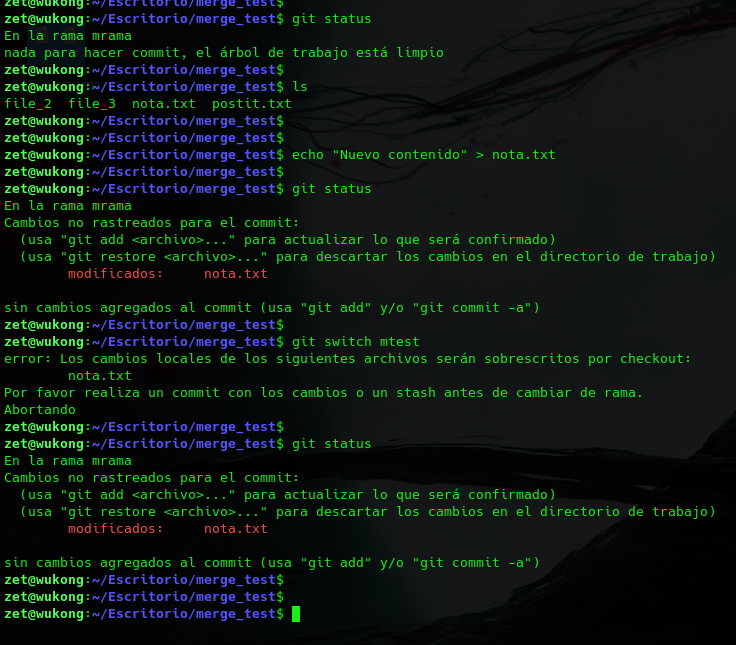
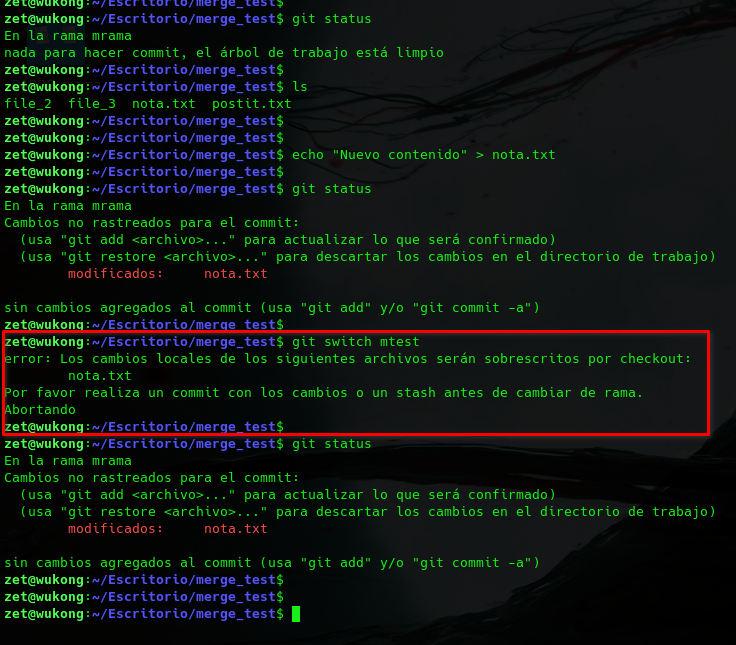
Actu

Changed region(s): [[0.0, 0.4961, 0.9688, 0.6822]]

diff --git a/secciones/git_stash.md b/secciones/git_stash.md
@@ -2,7 +2,7 @@
 
 # **git stash**
 
-Si, mientras estamos editando un archivo en una rama, antes de terminar la edición y hacer un commit, intentamos cambiar de rama se nos advertirá de que todavía tenemos algo sin confirmar, sin hacer commit en el, y no se nos permitirá cambiar de rama.
+Si, mientras estamos editando un archivo en una rama, antes de terminar la edición y hacer un commit, intentamos cambiar de rama se nos advertirá de que todavía tenemos algo sin confirmar, sin commit, y a causa de esto no se nos permitirá cambiar de rama.
 
 ![git_stash](/IMG/git_stash_01.png "git stash")      
 
@@ -31,7 +31,7 @@ Con este comando podemos ver que **stash** hay guardados.
 
 ![git_stash](/IMG/git_stash_04.png "git stash")      
 
-Se nos indica la rama donde se ha hecho el stash y el último commit que había en el momento de hacer la edición.
+Se nos indica la rama donde se ha hecho el stash y el último commit que había en ese momento.
 
 &nbsp;    
 
